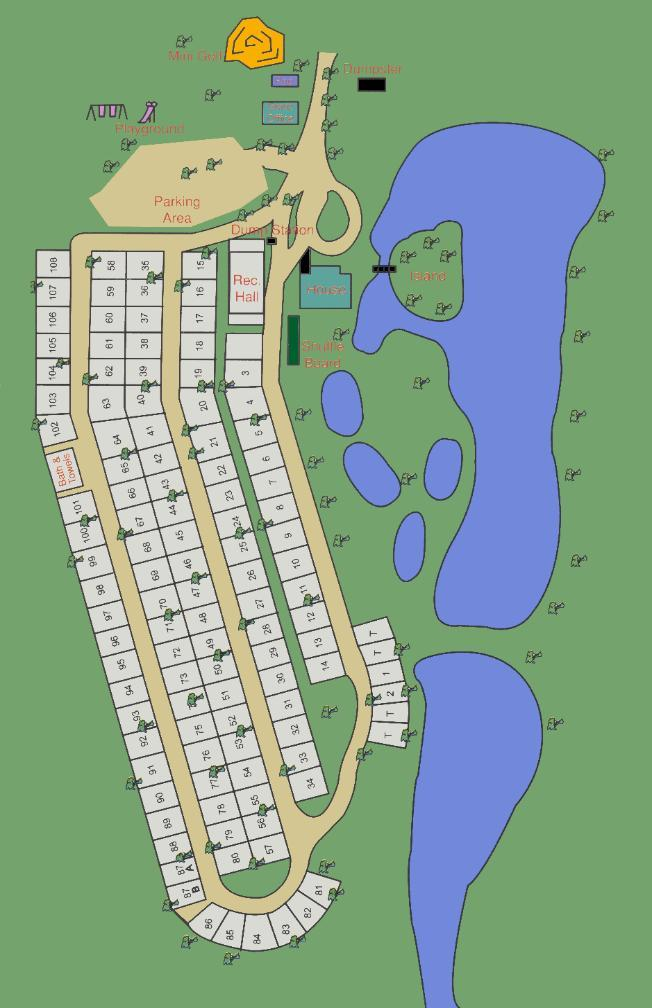
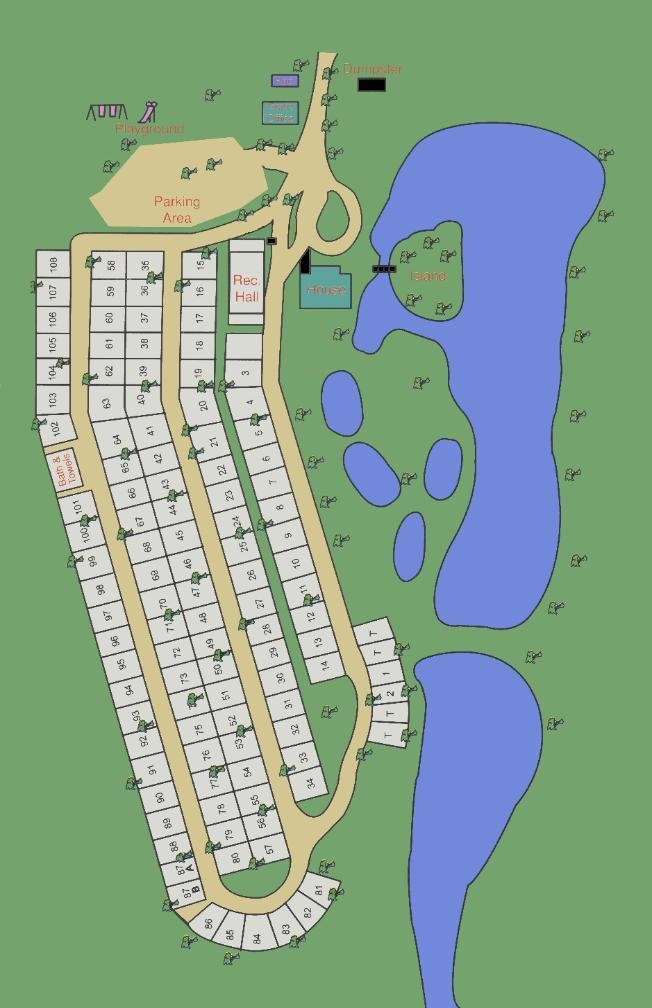
fix label on map, fixed date issue on photos, update test form

Changed region(s): [[0.2454, 0.0, 0.4601, 0.0923], [0.4294, 0.3075, 0.5215, 0.369], [0.3681, 0.2153, 0.4601, 0.246]]

diff --git a/thankyou.html b/thankyou.html
@@ -125,7 +125,7 @@
                     <tbody>
                       <tr>
                         <td class="tg-50wj"></td>
-                        <td class="tg-0xxl" colspan="8">Open: APRIL 15TH - OCTOBER 15TH</td>
+                        <td class="tg-0xxl" colspan="8">THANK YOU FOR CONTACTING US!</td>
                         <td class="tg-2fyw"></td>
                       </tr>
                       <tr>
@@ -142,7 +142,7 @@
                       </tr>
                       <tr>
                         <td class="tg-2fyw"></td>
-                        <td class="tg-s9zh" colspan="8">OFFICE/STORE HOURS: 10AM - 8PM</td>
+                        <td class="tg-s9zh" colspan="8">Your message has been successfully sent. We will contact you very soon!</td>
                         <td class="tg-2fyw"></td>
                       </tr>
                       <tr>
@@ -159,38 +159,9 @@
                       </tr>
                     </tbody>
                     </table></div>
+                
                     
-                    <img id="top" src="assest/top.png" alt="">
-                    <div class="row">
-                        <div class="col-md- " id="form_container">
-                            <h2 align="center">Contact Us</h2>
-                            <p align="center">
-                               Please send your message below. We will get back to you at the earliest!
-                            </p>
-                           
-                          
-                            <form action="mail.php" method="post" class="form_container">
-                            <label for="name" class="left">Your Name:</label>
-                            <input type="text"  name="name" placeholder="First and Last Name" class="right"><br>
-                        
-                            <label for="emailaddress" class="left">Email:</label>
-                            <input type="email"  name="email" placeholder="example@email.com" class="right"><br>
-                            
-                            <label for="phone" class="left">Phone:</label>
-                            <input type="number"  name="phone" placeholder="Contact Number" class="right"><br>
-                           
-                            <label for="message" class="left">Message:</label>
-                            <textarea  name="message" placeholder="Input Message Here" style="height:100px" class="right"></textarea>
-                       
-                            <div class="button" align="center">
-                                <input type="submit" value="Submit">
-                            </div>
-                            
-                          </form>
-
-                        </div>
                     </div>
-</div>
             
         <!-- ----------x---------- Blog Carousel --------x-------- -->
 

diff --git a/css/form.css b/css/form.css
@@ -1,34 +1,21 @@
-
 #form_container
 {
-	padding:15px 15px;
-	margin-top:15px;
 	background: #9b9b9b;	
   font-weight: bolder;
 }
-body
-{
-	background-size: cover;
-	background-repeat:no-repeat;
 
-}
-.upload-btn-wrapper 
-{
-  position: relative;
-  overflow: hidden;
-  display: inline-block;
-  padding: 0%;
+.left{
+  width: 25%;
+  float: left;
+  text-align: right;
 }
 
-.upload-btn-wrapper input[type=file] 
-{
-  font-size: 10px;
-  position: absolute;
-  left: 0;
-  top: 0;
-  opacity: 0;
+.right{
+  width: 65%;
+  margin-left: 2px;
+  float: left;
 }
 
-textarea {
-width: auto;
+.button{
+  margin: 1rem;
 }

diff --git a/php/handler.php b/php/handler.php
@@ -1,27 +1,23 @@
 <?php
-ini_set('display_errors', 1);
-ini_set('display_startup_errors', 1);
-error_reporting(E_ALL);
-/*
-Tested working with PHP5.4 and above (including PHP 7 )
+//get data from form  
 
- */
-require_once './vendor/autoload.php';
-
-use FormGuide\Handlx\FormHandler;
+$name = $_POST['name'];
+$email= $_POST['emailaddress'];
+$number= $_POST['phone'];
+$message= $_POST['message'];
 
 
-$pp = new FormHandler(); 
-
-$validator = $pp->getValidator();
-$validator->fields(['name','email'])->areRequired()->maxLength(50);
-$validator->field('email')->isEmail();
-$validator->field('message')->maxLength(6000);
+$to = "kumarorlewicz@gmail.com";
 
 
-$pp->attachFiles(['image']);
+$subject = "New Submission from Leisure Valley Contact Us Form";
+$txt ="Name = ". $name . "\r\n  Email = " . $email . "\r\n Phone = " . $number . "\r\n Message =" . $message;
 
-
-$pp->sendEmailTo('leisurevalleycamp@gmail.com'); // ← Your email here
-
-echo $pp->process($_POST);
+$headers = "From: noreply@yoursite.com" . "\r\n" .
+"CC: somebodyelse@example.com";
+if($email!=NULL){
+    mail($to,$subject,$txt,$headers);
+}
+//redirect
+header("Location:thankyou.html");
+?>
